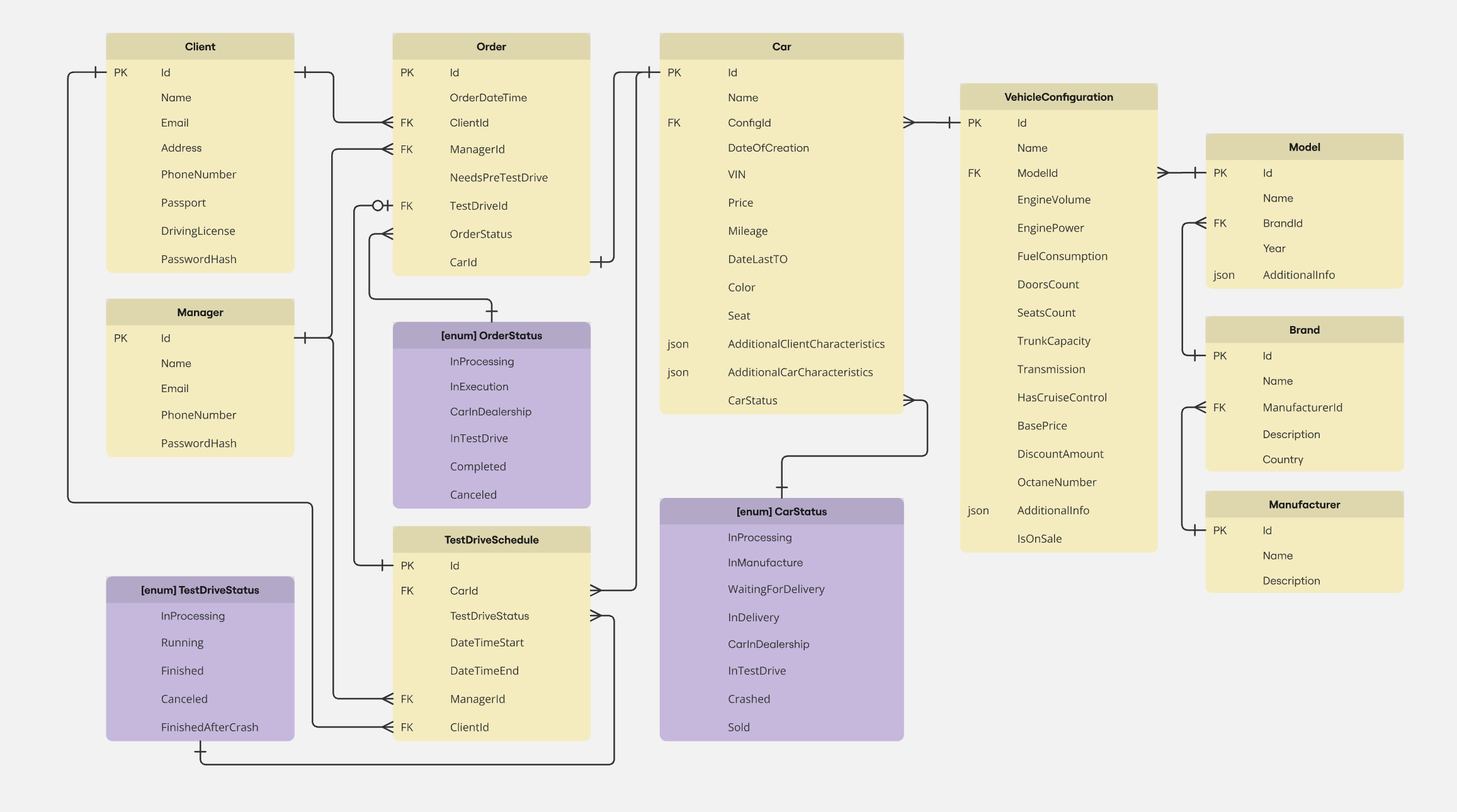
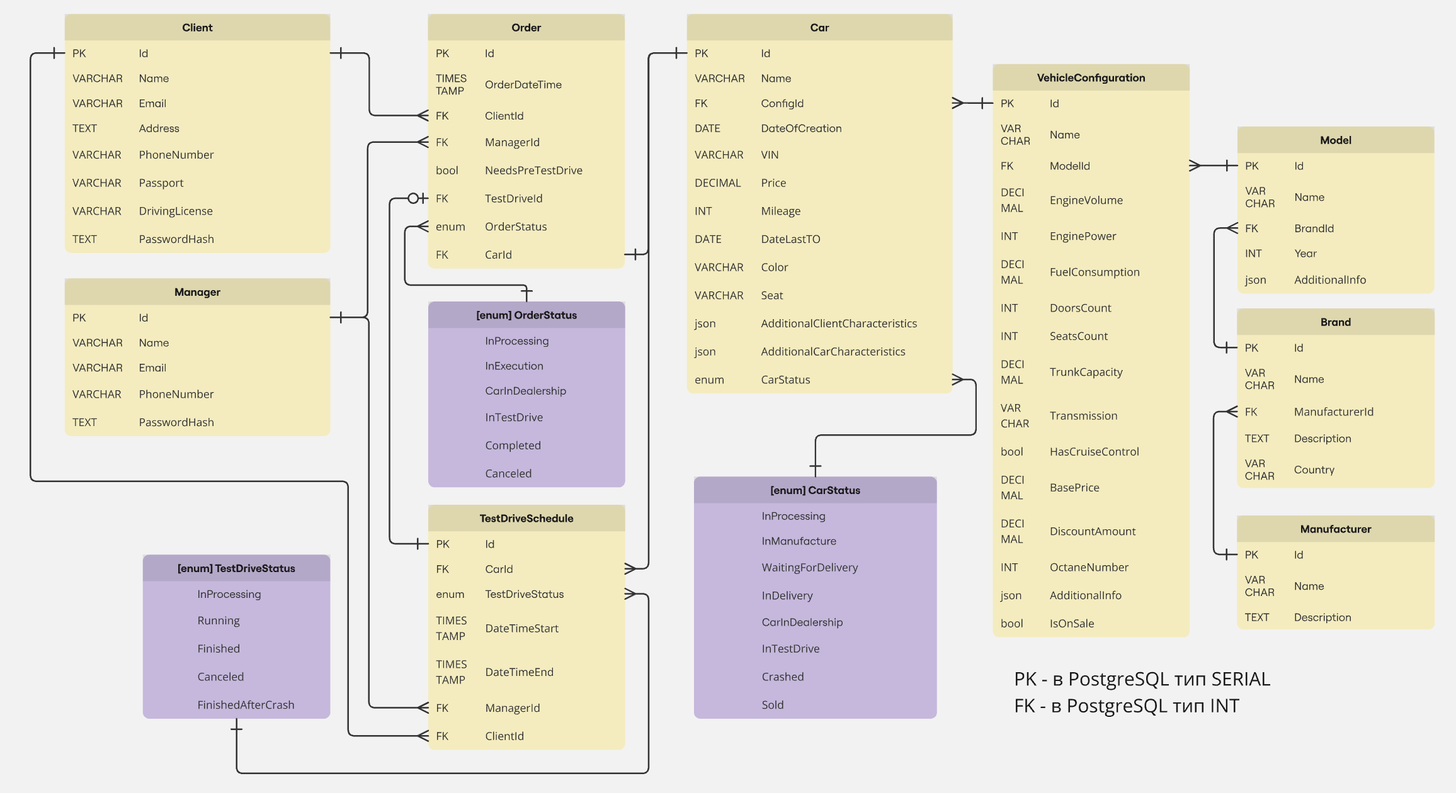
Update docs

Changed region(s): [[0.0311, 0.0, 0.9965, 0.9595], [0.6851, 0.8357, 0.872, 0.8976]]

diff --git a/docs/description.md b/docs/description.md
@@ -17,15 +17,16 @@
 
 ### Вход в систему и Регистрация клиента
 - Форма слева для ввода почты и пароля - Вход в систему. Клиент после входа попадает на Главную, менеджер - в Dashboard.
-- Форма справа для ввода имени, почты, номера телефона, пароля - Регистрация клиента
+- Форма справа для ввода имени, почты, номера телефона, пароля - Регистрация клиента.
 
 ### Личный кабинет клиента
-- Форма для изменения личных данных клиента. Нажатие кнопки "Сохранить" сохраняет изменения.
+- Форма для изменения личных данных клиента (Name, Email, Address, PhoneNumber, Passport, DrivingLicense в таблице Client БД, Пароль => PasswordHash в таблице Client БД). Нажатие кнопки "Сохранить" сохраняет изменения.
 - Список совершенных заказов и тест-драйвов. Нажатие кнопки "Отмена" у непереданных в производство заказов и не начатых тест-драйвов отменяет их.
 
 ### Каталог машин
 - Поиск и фильтры по характеристикам автомобилей (объем двигателя, цвет, пробег и т.д.)
 - Карточки автомобилей: сначала идут карточки автомобилей из автосалона, после них идут карточки всех возможных моделей и комплектаций под заказ из завода. Нажатие на карточку переводит на соответствующую страницу выбранной модели.
+- Карточка состоит из фотографии автомобиля (берется из файловой системы по Id автомобиля), названий модели, марки, производителя в заголовке, названия конфигурации и года в подзаголовке, цвет машины и обивка салона в описании, цены автомобиля внизу карточки большим шрифтом. То же самое для комплектаций под заказ.
 
 ### Страница выбранной модели
 - Фото автомобиля
@@ -53,42 +54,49 @@
 
 ### Dashboard для менеджера
 - Кнопки для перехода к страницам для менеджера
-- Список уведомлений по заказам и заявкам (которые нужно обработать)
 
 ### Список заказов клиентов
-- Изменение данных по заказам (статус, данные, тест-драйв). Нажатие кнопки "Сохранить" сохраняет изменения.
+- Список представляет собой таблицу, отображающую 1 к 1 таблицу Order БД. Поменять можно все значения, кроме Id, OrderDateTime, ClientId. В каждой строке есть кнопки "Сохранить изменения" (сохранение изменений), "Удалить заказ" (удаление записи из БД). Если в записи есть тест-драйв, то будет кнопка "Посмотреть тест-драйв" (пересылает на страницу списка заявок на тест-драйв с соответствующей фильтрацией). Иначе - кнопка "Добавить тест-драйв" (пересылает на страницу списка заявок на тест-драйв с заполненным полем "Номер заказа" в форме добавления заявки).
+- Для каждого столбца можно настроить фильтрацию в заголовке таблицы (числовой интервал или определенные текстовые значения, и т.д.).
 - Кнопка перехода в каталог для создания нового заказа
 
 ### Список заявок клиентов на тест-драйв
-- Изменение данных по заявкам (статус, данные, даты). Нажатие кнопки "Сохранить" сохраняет изменения.
-- Создание новой заявки (форма)
+- Список представляет собой таблицу, отображающую 1 к 1 таблицу TestDriveSchedule БД. Поменять можно все значения, кроме Id. В каждой строке есть кнопки "Сохранить изменения" (сохранение изменений), "Удалить заявку" (удаление записи из БД). 
+- Для каждого столбца можно настроить фильтрацию в заголовке таблицы (числовой интервал или определенные текстовые значения, и т.д.).
+- Создание новой заявки (форма). В полях указываются все значения, соответствующие столбцам таблицы TestDriveSchedule. Кнопка "Добавить тест-драйв" сохраняет заявку в БД.
 
 ### Список автомобилей 
-- Изменение данных автомобиля (характеристики, статус). Нажатие кнопки "Сохранить" сохраняет изменения.
-- Добавление нового автомобиля (форма)
+- Список представляет собой таблицу, отображающую 1 к 1 таблицу Car БД. Поменять можно все значения, кроме Id. Значения AdditionalClientCharacteristics (дополнительные опции автомобиля) и AdditionalCarCharacteristics (другие изменяемые характеристики) задаются в формате Json. В каждой строке есть кнопки "Сохранить изменения" (сохранение изменений), "Удалить автомобиль" (удаление записи из БД), "Переход к конфигурации" (пересылает на страницу списка конфигураций с соответствующей фильтрацией).
+- Для каждого столбца можно настроить фильтрацию в заголовке таблицы (числовой интервал или определенные текстовые значения, и т.д.).
+- Добавление нового автомобиля (форма). В полях указываются все значения, соответствующие столбцам таблицы Car. Кнопка "Добавить автомобиль" сохраняет автомобиль в БД.
 
 ### Список базовых комплектаций автомобилей
-- Изменение данных и статуса комплектации. Нажатие кнопки "Сохранить" сохраняет изменения.
-- Добавление/удаление комплектаций (форма)
+- Список представляет собой таблицу, отображающую 1 к 1 таблицу VehicleConfiguration БД. Поменять можно все значения, кроме Id. Значения AdditionalInfo (другие опции в конфигурации) задаются в формате Json. В каждой строке есть кнопки "Сохранить изменения" (сохранение изменений), "Удалить комплектацию" (удаление записи из БД), "Переход к модели" (пересылает на страницу списка моделей с единственной моделью из комплектации (фильтрация)), "Переход к автомобилям" (пересылает на страницу списка автомобилей автосалона с соответствующей фильтрацией).
+- Для каждого столбца можно настроить фильтрацию в заголовке таблицы (числовой интервал или определенные текстовые значения, и т.д.).
+- Добавление комплектаций (форма). В полях указываются все значения, соответствующие столбцам таблицы VehicleConfiguration. Кнопка "Добавить комплектацию" сохраняет комплектацию в БД.
 
 ### Список моделей
-- Изменение данных модели. Нажатие кнопки "Сохранить" сохраняет изменения.
-- Добавление/удаление модели (форма)
+- Список представляет собой таблицу, отображающую 1 к 1 таблицу Model БД. Поменять можно все значения, кроме Id. В каждой строке есть кнопки "Сохранить изменения" (сохранение изменений), "Удалить модель" (удаление записи из БД), "Переход к марке" (пересылает на страницу списка марок с единственной маркой из комплектации (фильтрация)), "Переход к комплектациям" (пересылает на страницу списка комплектаций с соответствующей фильтрацией).
+- Для каждого столбца можно настроить фильтрацию в заголовке таблицы (числовой интервал или определенные текстовые значения, и т.д.).
+- Добавление модели (форма). В полях указываются все значения, соответствующие столбцам таблицы Model. Кнопка "Добавить модель" сохраняет модель в БД.
 
 ### Список марок
-- Изменение данных марок. Нажатие кнопки "Сохранить" сохраняет изменения.
-- Добавление/удаление марок (форма)
+- Список представляет собой таблицу, отображающую 1 к 1 таблицу Brand БД. Поменять можно все значения, кроме Id. В каждой строке есть кнопки "Сохранить изменения" (сохранение изменений), "Удалить марку" (удаление записи из БД), "Переход к производителю" (пересылает на страницу списка производителей с единственным производителем марки (фильтрация)), "Переход к моделям" (пересылает на страницу списка моделей с соответствующей фильтрацией).
+- Для каждого столбца можно настроить фильтрацию в заголовке таблицы (числовой интервал или определенные текстовые значения, и т.д.).
+- Добавление марок (форма). В полях указываются все значения, соответствующие столбцам таблицы Brand. Кнопка "Добавить марку" сохраняет марку в БД.
 
 ### Список производителей
-- Изменение данных производителя. Нажатие кнопки "Сохранить" сохраняет изменения.
-- Добавление/удаление производителя (форма)
+- Список представляет собой таблицу, отображающую 1 к 1 таблицу Manufacturer БД. Поменять можно все значения, кроме Id. В каждой строке есть кнопки "Сохранить изменения" (сохранение изменений), "Удалить производителя" (удаление записи из БД), "Переход к маркам" (пересылает на страницу списка марок с соответствующей фильтрацией).
+- Для каждого столбца можно настроить фильтрацию в заголовке таблицы (числовой интервал или определенные текстовые значения, и т.д.).
+- Добавление производителя (форма). В полях указываются все значения, соответствующие столбцам таблицы Manufacturer. Кнопка "Добавить производителя" сохраняет производителя в БД.
 
 ### Создание нового аккаунта менеджера
-- Форма для заполнения данных нового менеджера. Нажатие кнопки "добавить" добавляет нового менеджера.
+- Форма для заполнения данных нового менеджера. Поля соответствуют столбцам таблицы Manager в БД (кроме Id и PasswordHash). Указывается новый пароль аккаунта. Нажатие кнопки "Добавить" добавляет нового менеджера в БД.
 
 ### Список клиентов
-- Изменение данных клиентов. Нажатие кнопки "Сохранить" сохраняет изменения.
-- Добавление нового клиента (форма как в странице Входа в систему/Регистрации)
+- Список представляет собой таблицу, отображающую 1 к 1 таблицу Client БД. Поменять можно все значения, кроме Id и PasswordHash. В каждой строке есть кнопки "Сохранить изменения" (сохранение изменений), "Удалить клиента" (удаление записи из БД), "Посмотреть заказы клиента" (пересылает на страницу списка заказов с соответствующей фильтрацией).
+- Для каждого столбца можно настроить фильтрацию в заголовке таблицы (числовой интервал или определенные текстовые значения, и т.д.).
+- Добавление нового клиента (форма как в странице Входа в систему/Регистрации).
 
 ## Описание use cases/сценариев использования
 
@@ -113,6 +121,26 @@
 - Список заявок на тест-драйв (может создать, обработать онлайн-заявку и поменять статус)
 - Список клиентов (может зарегистрировать, поменять данные, узнать какие у клиента были заказы)
 - Форма для регистрации нового менеджера 
+
+### Получение списка автомобилей по разным характеристикам
+Клиент заходит на сайт и попадает на главную страницу сайта. Оттуда переходит в каталог, и в форме фильтрации регулирует нужные ему характеристики автомобилей. После этого в каталоге показываются соответствующие фильтрации предложения.
+
+Менеджер заходит на сайт и попадает на главную страницу сайта. Оттуда переходит на страницу Входа в систему, заходит под своим именем, после чего переходит в Dashboard. Нажимает кнопку "список автомобилей", переходит на страницу списка автомобилей.
+
+### Получение списка клиентов по характеристикам их заказов
+Менеджер заходит на сайт и попадает на главную страницу сайта. Оттуда переходит на страницу Входа в систему, заходит под своим именем, после чего переходит в Dashboard. Нажимает кнопку "список заказов", переходит на страницу списка заказов. В фильтре указывает нужные ему характеристики, после чего получает соответствующие фильтрации заказы. В полученных заказах указаны Id клиентов.
+
+### Оформление заказа, проверка и изменение статуса заказа
+Менеджер заходит на сайт и попадает на главную страницу сайта. Оттуда переходит на страницу Входа в систему, заходит под своим именем, после чего переходит в Dashboard. Нажимает кнопку "список заказов", переходит на страницу списка заказов. В фильтре указывает нужные ему характеристики, после чего получает соответствующие фильтрации заказы. В полученных заказах проверяет статусы заказов, после чего он может их поменять. После этого менеджер нажимает кнопки сохранения изменений.
+
+### Добавление и удаление клиента, чтение и редактирование данных о нем
+Клиент заходит на сайт и попадает на главную страницу сайта. Оттуда он может попасть в форму входа/регистрации, после чего он вводит свою почту и пароль и входит в систему ИЛИ заполняет форму регистрации и регистрируется. В шапке сайта клиент нажимает "Личный кабинет", после чего он может в форме прочитать и изменить свои личные данные. Нажимает кнопку "Сохранить" после изменения.
+
+Менеджер заходит на сайт и попадает на главную страницу сайта. Оттуда переходит на страницу Входа в систему, заходит под своим именем, после чего переходит в Dashboard. Менеджер нажимает кнопку "Список клиентов". Там он может читать и редактировать данные существующих клиентов. Менеджер может удалить клиентов, нажав на кнопку. В форме регистрации клиента на той же странице он может зарегистрировать нового клиента. 
+
+### Добавление и удаление марки автомобилей или конкретного автомобиля, чтение и редактирование данных о них
+Менеджер заходит на сайт и попадает на главную страницу сайта. Оттуда переходит на страницу Входа в систему, заходит под своим именем, после чего переходит в Dashboard. Менеджер нажимает кнопку "Список марок". Там он может читать и редактировать данные марок автомобилей. Менеджер может удалить марку, нажав на кнопку. В форме добавления марки на той же странице он может добавить новую марку. Аналогично со страницей списка автомобилей автосалона.
+
 
 ## Схема БД
 ![БД](db_er_diagram.png)
